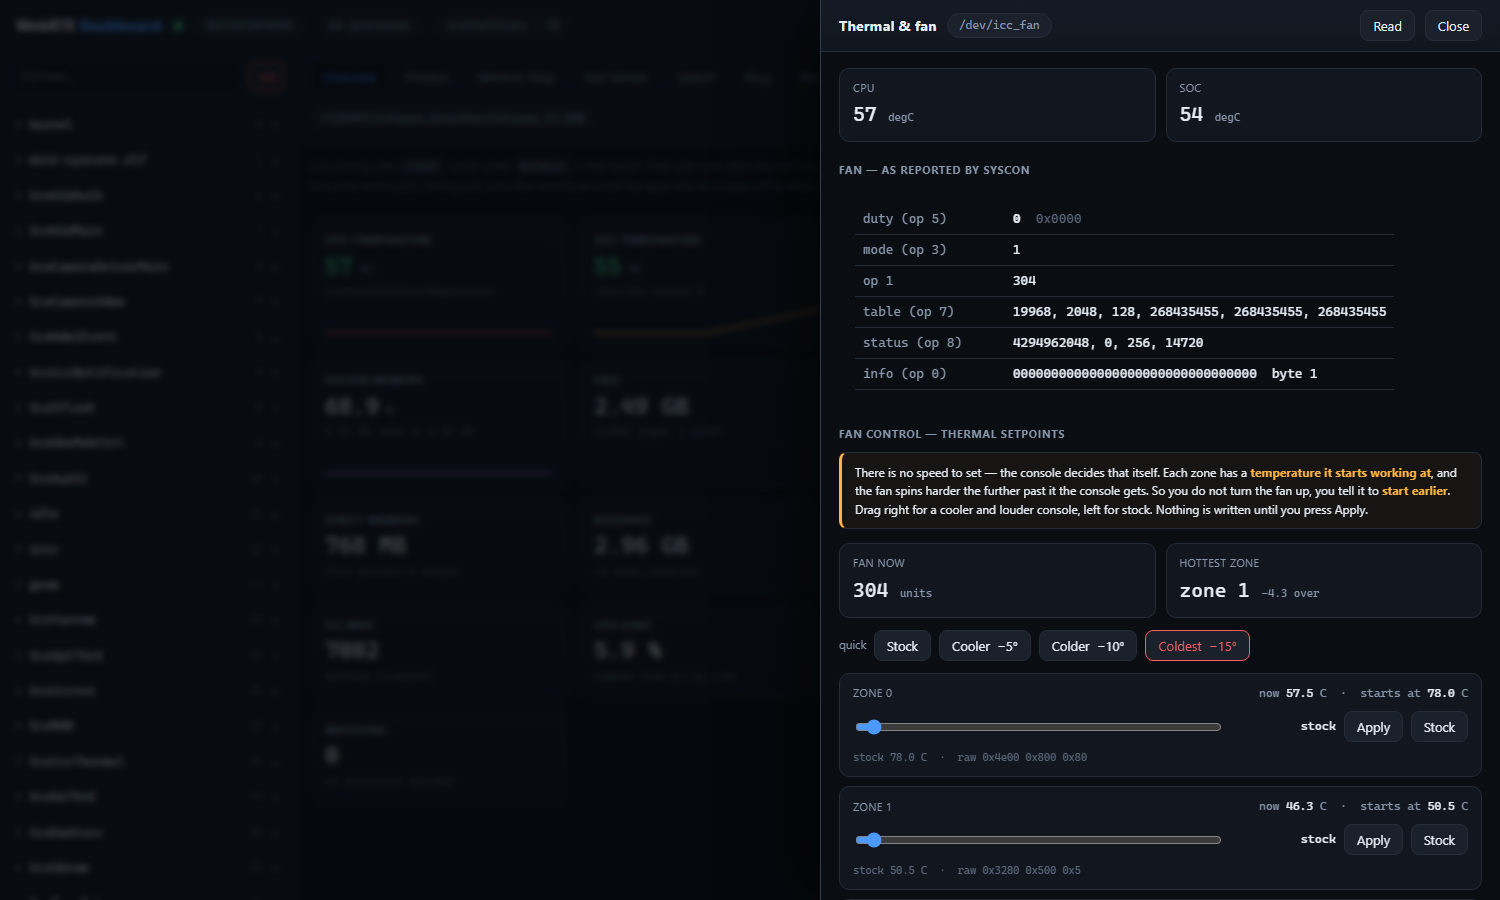
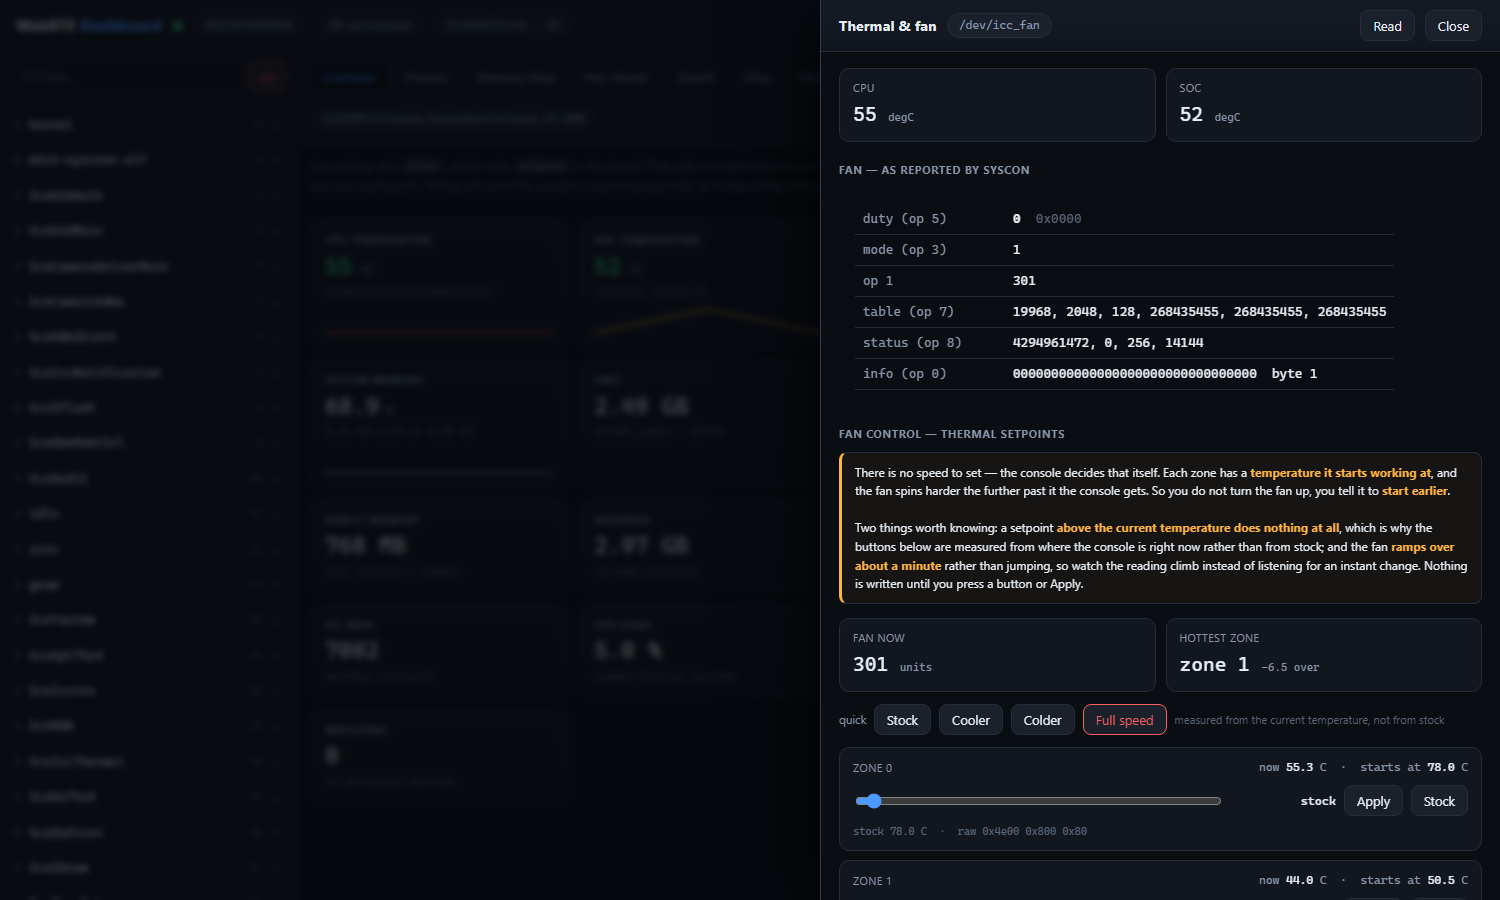
Fan presets measured from the current temperature, not from stock
A setpoint above the current reading contributes nothing, and zone 0 ships at
78 C while idling near 55 -- so the old -15-from-stock preset left it 8 degrees
above the reading and it never engaged at all. That is why the fan looked dead:
only zone 1 was doing anything, with the weaker of the two gain sets.

The buttons now subtract from what each zone is reading right now, which
guarantees engagement. Measured through the panel: Full speed took the fan
300 -> 474 -> 604 -> 863 -> 953 toward its 1024 ceiling, and Stock brought it
back.

The panel also refreshes every five seconds while open. The controller ramps
over roughly a minute, so a change that is working looks like nothing at all if
the reading never updates.

Changed region(s): [[0.552, 0.56, 0.9813, 1.0], [0.7053, 0.3733, 0.736, 0.4044]]

diff --git a/dashboard/dashboard.html b/dashboard/dashboard.html
@@ -614,8 +614,12 @@
           There is no speed to set &mdash; the console decides that itself. Each zone has a
           <b>temperature it starts working at</b>, and the fan spins harder the further past it
           the console gets. So you do not turn the fan up, you tell it to <b>start earlier</b>.
-          Drag right for a cooler and louder console, left for stock. Nothing is written until
-          you press Apply.
+          <br><br>
+          Two things worth knowing: a setpoint <b>above the current temperature does nothing at
+          all</b>, which is why the buttons below are measured from where the console is right
+          now rather than from stock; and the fan <b>ramps over about a minute</b> rather than
+          jumping, so watch the reading climb instead of listening for an instant change.
+          Nothing is written until you press a button or Apply.
         </div>
 
         <div class="duo" style="margin-bottom:12px">
@@ -625,10 +629,12 @@
 
         <div class="row" id="thPresets" style="margin-bottom:12px">
           <span style="font-size:11.5px;color:var(--dim)">quick</span>
-          <button data-preset="0">Stock</button>
-          <button data-preset="5">Cooler &nbsp;&minus;5&deg;</button>
-          <button data-preset="10">Colder &nbsp;&minus;10&deg;</button>
-          <button data-preset="15" class="danger">Coldest &nbsp;&minus;15&deg;</button>
+          <button data-preset="stock">Stock</button>
+          <button data-preset="5">Cooler</button>
+          <button data-preset="10">Colder</button>
+          <button data-preset="15" class="danger">Full speed</button>
+          <span style="font-size:11px;color:var(--dimmer)">measured from the current
+            temperature, not from stock</span>
         </div>
 
         <div id="thZones"><div class="msg">read the fan first</div></div>
@@ -1846,6 +1852,21 @@ function coolingOf(idx) {
   return el ? +el.value : 0;
 }
 
+// Writes one zone's setpoint, keeping the rest of its table untouched.
+async function writeSetpoint(idx, deg) {
+  const z = fanZones.find(x => x.idx === idx);
+  if (!z) throw new Error("zone not read yet");
+  const t = z.table.slice();
+  t[0] = Math.round(deg * Q88);
+  const p = { op: 6, idx, b: 0 };
+  t.forEach((v, i) => p["d" + i] = v);
+  const r = await apiJson("fan", p);
+  $("#thOut").textContent = JSON.stringify(r, null, 1);
+  ev(`fan: zone ${idx} starts at ${deg.toFixed(1)} C `
+     + `(now ${z.measured.toFixed(1)}, was ${z.setpoint.toFixed(1)})`, "warn");
+  return r;
+}
+
 const applyZone = guard(async (idx) => {
   const z = fanZones.find(x => x.idx === idx);
   if (!z) throw new Error("zone not read yet");
@@ -1855,15 +1876,7 @@ const applyZone = guard(async (idx) => {
   const deg = stock - cool;
   if (!isFinite(deg) || cool < 0 || deg < 20) throw new Error("out of range");
 
-  const t = z.table.slice();
-  t[0] = Math.round(deg * Q88);
-  const p = { op: 6, idx, b: 0 };
-  t.forEach((v, i) => p["d" + i] = v);
-
-  const r = await apiJson("fan", p);
-  $("#thOut").textContent = JSON.stringify(r, null, 1);
-  ev(cool ? `fan: zone ${idx} starts ${cool}\u00b0 earlier, at ${deg.toFixed(1)} C`
-          : `fan: zone ${idx} back to stock, ${deg.toFixed(1)} C`, "warn");
+  await writeSetpoint(idx, deg);
   await readFan();
 });
 
@@ -1890,16 +1903,30 @@ $("#thZones").addEventListener("click", e => {
   if (r) restoreZone(+r.dataset.zres);
 });
 // Every live zone at once, because picking per zone is the fiddly part.
+// Below the temperature the zone is reading right now, which is the only thing
+// that decides whether it does anything: a setpoint above the current reading
+// contributes nothing, however far below stock it looks. Zone 0 sits at 78 C
+// and idles near 55, so -15 from stock never engaged it at all.
+//
+// Measured: driving zone 0 to 15 below its reading took the fan 458 -> 1024
+// over about 50 seconds, and stock brought it back to 310 in 25.
+async function belowNow(deg) {
+  for (const z of fanZones) {
+    if (z.measured === 0) continue;
+    const target = Math.max(20, z.measured - deg);
+    await writeSetpoint(z.idx, target);
+  }
+  await readFan();
+}
+
 $("#thPresets").addEventListener("click", guard(async (e) => {
   const b = e.target.closest("[data-preset]");
   if (!b) return;
-  const cool = +b.dataset.preset;
-  for (const z of fanZones) {
-    if (z.measured === 0) continue;
-    const el = $(`[data-zr="${z.idx}"]`);
-    if (el) el.value = cool;
-    await applyZone(z.idx);
+  if (b.dataset.preset === "stock") {
+    for (const idx of Object.keys(fanBaseTable || {})) await restoreZone(+idx);
+    return;
   }
+  await belowNow(+b.dataset.preset);
 }));
 
 $("#thRestoreAll").onclick = guard(async () => {
@@ -2053,11 +2080,23 @@ const FAN_OPS = {
   5: "get manual duty", 6: "set table", 7: "get table", 8: "status"
 };
 
+let thermTimer = null;
+
 function openTherm() {
   $("#thermScrim").hidden = false;
   readFan();
+  // The fan takes about a minute to settle, so refresh while the panel is open
+  // -- otherwise a change looks like it did nothing.
+  clearInterval(thermTimer);
+  thermTimer = setInterval(() => {
+    if (!$("#thermScrim").hidden) readFan();
+  }, 5000);
 }
-function closeTherm() { $("#thermScrim").hidden = true; }
+function closeTherm() {
+  $("#thermScrim").hidden = true;
+  clearInterval(thermTimer);
+  thermTimer = null;
+}
 
 $("#thermClose").onclick = closeTherm;
 $("#thermScrim").onclick = e => { if (e.target.id === "thermScrim") closeTherm(); };

diff --git a/README.md b/README.md
@@ -203,10 +203,17 @@ Verified live, several times: dropping zone 1 from 50.5 °C to 45.0 took the fan
 the panel's own buttons, **Colder &minus;10°** took it 303 → 357 and **Restore every zone** put
 it back to 310. Nothing latched.
 
-So the control is: **tell a zone to start working earlier.** The panel puts that on a slider
-per zone — left is stock, right is cooler and louder — with quick buttons for &minus;5, &minus;10
-and &minus;15 degrees across every live zone at once, and a live fan readout so you can watch it
-respond.
+So the control is: **tell a zone to start working earlier.** Two things about that are worth
+saying plainly, because both of them look like the control is broken:
+
+- **A setpoint above the current temperature does nothing at all.** Zone 0 ships at 78 °C and
+  idles near 55, so taking it 15 degrees below *stock* still leaves it 8 degrees above the
+  reading and it never engages. The quick buttons are therefore measured from **where the
+  console is right now**, not from stock.
+- **The fan ramps over about a minute**, it does not jump. Driving both zones 15 degrees below
+  their readings took the fan **300 → 474 → 604 → 863 → 953** and on to its 1024 ceiling;
+  pressing **Stock** brought it back down again. Watch the reading climb rather than listening
+  for an instant change — the panel refreshes itself every five seconds while it is open.
 
 **Stock means the factory values, not whatever the panel saw first.** Taking the baseline from
 the first read is wrong the moment somebody has already lowered a setpoint: restoring would put
